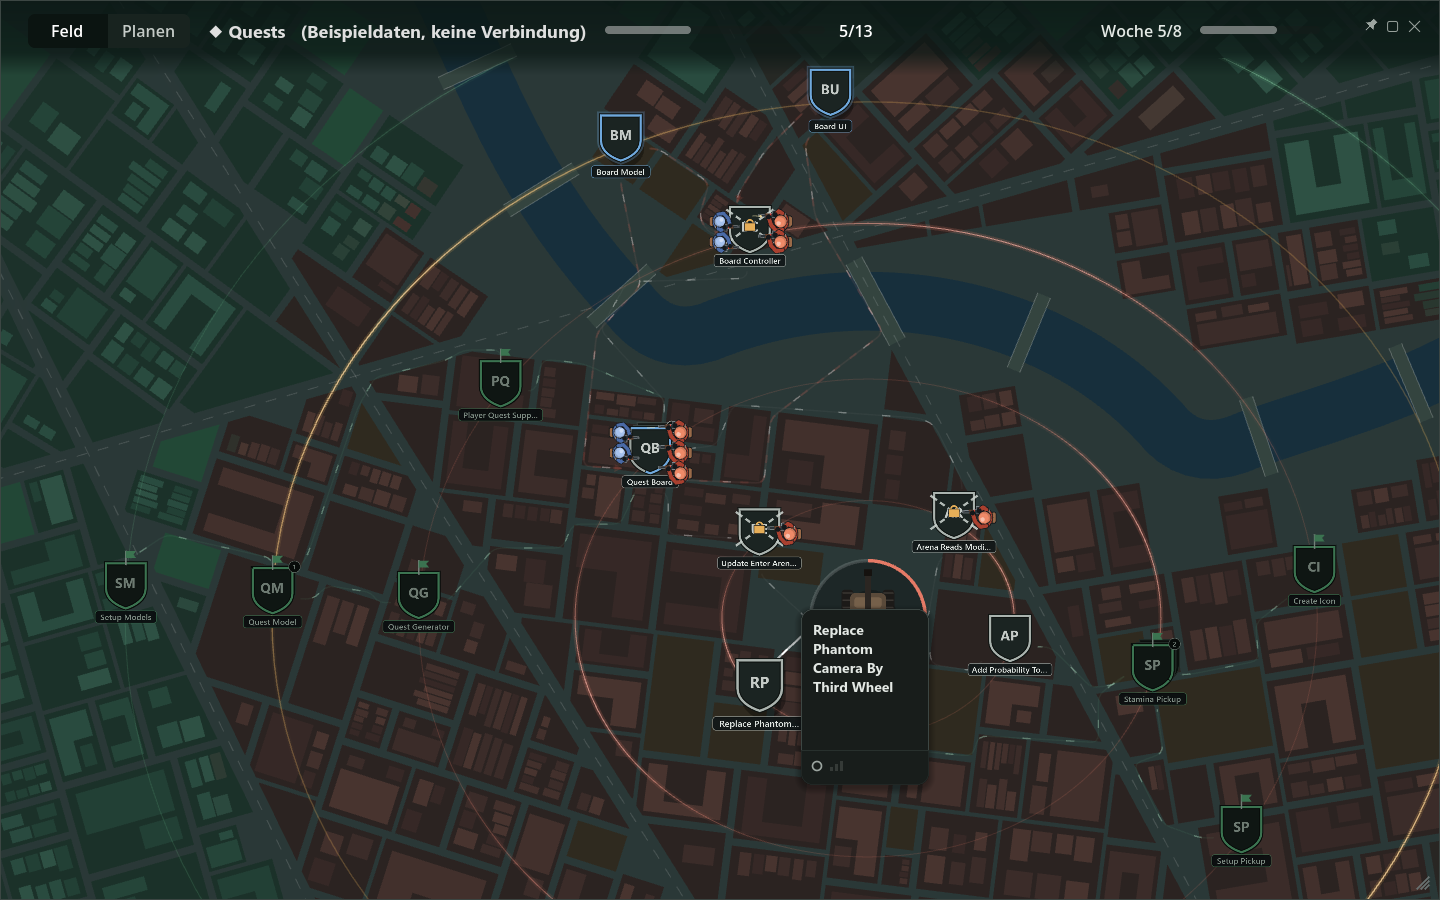
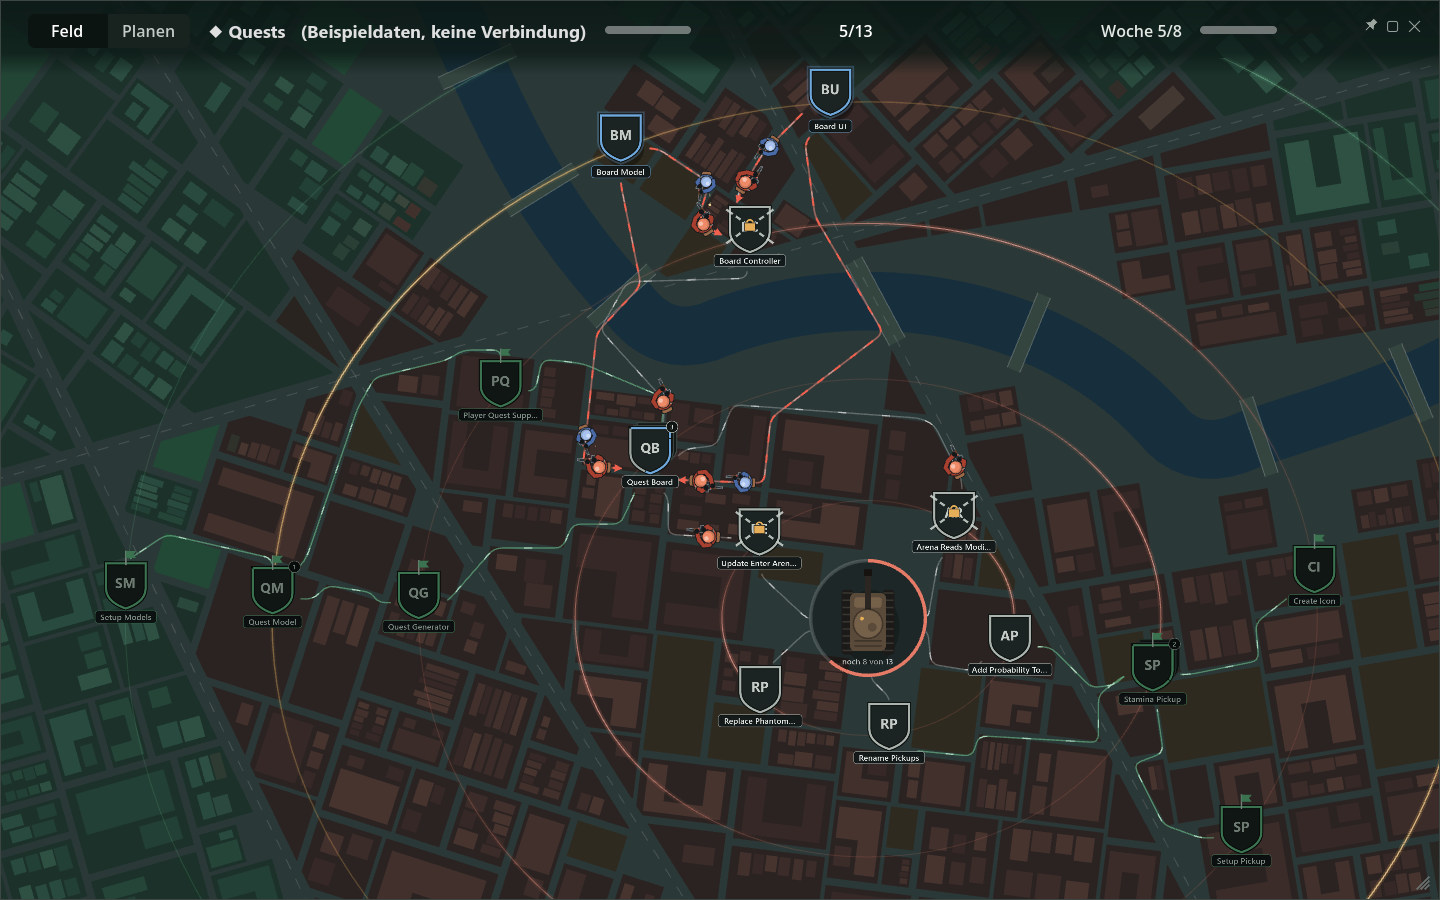
Kampf auf der Straße, Kopfzeile im Lageplan aufgeräumt
Gegner und eigene Soldaten stehen auf dem Weg vor der Karte und schauen
sich an. Im Lageplan zeigt die Kopfzeile nur noch Release und Milestone
und beginnt erst über der Karte.

diff --git a/PLAN.md b/PLAN.md
@@ -491,8 +491,8 @@ Der Weg zum Milestone soll ein Ziel haben. Statt Hand und Nachziehstapel liegen 
 - **Bedienung:** Verschoben wird das Feld mit der mittleren Maustaste, auch über Karten; die linke greift nur Karten. Karten, Wege und Figuren verschwinden hinter der Kopfzeile, die Stadt scheint durch.
 - **Feldzugskarte** (Nutzer, 2026-10-10; `rules/release.gd`, `rules/campaign.gd`, `ui/campaign_view.gd`): Tasker kennt Releases aus mehreren Milestones und mehrere aktive Milestones. Über dem Feld liegt deshalb eine zweite Ebene nach derselben Logik: das aktive Release steht als Festung in der Mitte, seine Milestones liegen als Städte in Ringen darum – außen, wovon ein anderer abhängt. Jede Stadt zeigt verkleinert ihren Fortschritt (von außen nach innen grün, Anteil in der Mitte) und je laufender Aufgabe ein Gefecht. Landstraßen verbinden, was aufeinander wartet; von jedem aktiven Milestone rollen Panzer nach innen, Flieger darüber. Ein Klick auf eine Stadt (oder weit hineinzoomen) öffnet ihr Feld; zurück geht es über den Release-Knopf in der Kopfzeile oder durch Herauszoomen über das Feld hinaus. Aktiv ist das erste unveröffentlichte Release mit laufendem Milestone, sonst das erste unveröffentlichte. Zu einem Release zählt ein Milestone auch, wenn einer seiner Milestones ihn über Abhängigkeiten braucht, über die ganze Kette (nach Taskers `shared/releaseOf.ts`, in `rules/workspace.gd`). Was zu keinem Release gehört, zeigt die Karte nicht. Die Karte ändert nichts; im Feld eines geplanten oder fertigen Milestones wird nur geschaut. Ohne Release ist alles wie zuvor. Verworfen: die Städte von Hand oder nach Plan-Reihenfolge anordnen (zu anfällig). Offen: „Spielen“, Dock und Szenen-Karten kennen weiter nur einen aktiven Milestone; Changelog und Kanäle sind zurückgestellt.
 - **Der Spieltisch ist entfernt** (Nutzer, 2026-10-12): Die Ansicht „Spielen“ mit Hand, Nachziehstapel, Schublade und Erledigt-Stapel gibt es nicht mehr; das Feld hat sie abgelöst. Das Tischfenster hat noch zwei Reiter, „Feld“ und „Planen“. Geblieben sind Wochenziel und Serie in der Kopfzeile, die Ablage (ein Klick auf das Wochenziel öffnet sie) und die Meldungen, wenn etwas erledigt oder frei wird. Was weiter oben in diesem Plan den Spieltisch beschreibt, ist damit Geschichte. Offen: Dock und Szenen-Karten zeigen weiter „Hand“ und „Nachziehstapel“ aus dem lokal gemerkten Stand (`rules/hand.gd`) – gezogen werden kann aber nirgends mehr; die Einstellung zur Handgröße hat keine Wirkung mehr.
-- **Abzeichen statt Karten in der Stadt** (Nutzer, 2026-10-12; `ui/badge.gd`): Eine gespielte Karte verliert ihre Form – ihr Titelbild bleibt als Wappenschild stehen, darunter ein Band mit dem Titel. Der Rand trägt die Farbe des Zustands und ist nach Checkliste und Unteraufgaben geteilt (ab 12 Stücken ohne Lücken), Winkel darüber stehen für die Priorität, Kette und Schloss für „gesperrt“, mehrere Schilde mit Zahl für einen Stapel, eine Fahne für „erledigt“. Was in Arbeit ist, hebt sich und leuchtet; das Querlegen entfällt. Ohne Titelbild trägt der Schild das Zeichen der Markierung oder die Anfangsbuchstaben. Unter dem Zeiger zeigt das Feld daneben die Karte in voller Größe – die Akte der Einheit. Die Figuren stehen neben dem Schild. Verworfen: Marken wie Spielsteine eines Kriegsspiels (kein Platz für Titel und Bild), das Bild auf dem Dach eines Blocks, eine Fahne mit dem Bild.
-- **Planen als Lageplan** (Nutzer, 2026-10-12; `ui/plan_map.gd`, das Feld mit `plan`): dieselbe Stadt, aber ruhig – einfarbig wie eine Blaupause, Ringe gestrichelt, keine Figuren, kein Tappen. Links die Reserve: Bereitschaft („Ready“) und Hinterland („Backlog“), gegliedert wie in Tasker, jede Aufgabe als Zeile mit Titelbild und lesbarem Titel (verkleinerte Karten waren nicht zu lesen); die Karte zeigt sich unter dem Zeiger. Oben eine Suche (Strg+F): sie filtert die Reserve und lässt in der Stadt zurücktreten, was nicht passt. Beim Ziehen sind die Abschnitte der Reserve Ziele, auch die leeren: ihre Zeilen klappen langsam und durchsichtig ein, nur der Abschnitt unter dem Zeiger bleibt oder geht auf; das Mausrad und der Rand rollen die Liste. So lässt sich eine Aufgabe aus der Stadt auf eine Kategorie oder Gruppe legen oder innerhalb der Reserve verlegen. Escape bricht jedes Ziehen ab, Strg+Z oder der Knopf neben der Suche nimmt Züge zurück (bis 50, nur im Lageplan). Eine Karte in die Stadt gezogen teilt sie dem Milestone zu (der Marschbefehl): sie fliegt an ihren Platz, ihr Rahmen zerfällt in Splitter, das Abzeichen setzt mit Lichtkreis und Nachfedern auf. Ein Abzeichen zurück in die Reserve gezogen legt die Aufgabe in den Abschnitt unter dem Zeiger; das Rechtsklick-Menü nimmt sie in die Bereitschaft. Unten rechts wechselt eine Liste die Stadt – alle Milestones des Projekts, auch die ohne Release. Der Ordner von früher (Decks und Vorrat als Ringordner, `plan_view.gd`, `binder.gd`, `fan_view.gd`) ist entfernt (Nutzer, 2026-10-12); was weiter oben in diesem Plan ihn beschreibt, ist Geschichte. Offen: Reihenfolge innerhalb eines Milestones, Zuteilen an eine Gruppe oder Kategorie, Unteraufgaben umhängen, einen Milestone starten – das geht bisher nur im Ordner oder in Tasker.
+- **Abzeichen statt Karten in der Stadt** (Nutzer, 2026-10-12; `ui/badge.gd`): Eine gespielte Karte verliert ihre Form – ihr Titelbild bleibt als Wappenschild stehen, darunter ein Band mit dem Titel. Der Rand trägt die Farbe des Zustands und ist nach Checkliste und Unteraufgaben geteilt (ab 12 Stücken ohne Lücken), Winkel darüber stehen für die Priorität, Kette und Schloss für „gesperrt“, mehrere Schilde mit Zahl für einen Stapel, eine Fahne für „erledigt“. Was in Arbeit ist, hebt sich und leuchtet; das Querlegen entfällt. Ohne Titelbild trägt der Schild das Zeichen der Markierung oder die Anfangsbuchstaben. Unter dem Zeiger zeigt das Feld daneben die Karte in voller Größe – die Akte der Einheit. Gekämpft wird auf der Straße (Nutzer, 2026-10-12): der Gegner steht auf dem Weg seines Angreifers ein Stück vor der Karte und schaut ihm entgegen, der eigene Soldat hält auf demselben Weg vor ihm; zur Mitte hin steht er am Ende der Straße vor dem Panzer. Nur wo es keinen Weg gibt, stehen die Figuren neben dem Schild. Verworfen: Marken wie Spielsteine eines Kriegsspiels (kein Platz für Titel und Bild), das Bild auf dem Dach eines Blocks, eine Fahne mit dem Bild. Der Gegner schaut dabei den an, der ihn stellt, nicht bloß die Straße hinunter (Nutzer, 2026-10-12).
+- **Planen als Lageplan** (Nutzer, 2026-10-12; `ui/plan_map.gd`, das Feld mit `plan`): dieselbe Stadt, aber ruhig – einfarbig wie eine Blaupause, Ringe gestrichelt, keine Figuren, kein Tappen. Links die Reserve: Bereitschaft („Ready“) und Hinterland („Backlog“), gegliedert wie in Tasker, jede Aufgabe als Zeile mit Titelbild und lesbarem Titel (verkleinerte Karten waren nicht zu lesen); die Karte zeigt sich unter dem Zeiger. Oben eine Suche (Strg+F): sie filtert die Reserve und lässt in der Stadt zurücktreten, was nicht passt. Beim Ziehen sind die Abschnitte der Reserve Ziele, auch die leeren: ihre Zeilen klappen langsam und durchsichtig ein, nur der Abschnitt unter dem Zeiger bleibt oder geht auf; das Mausrad und der Rand rollen die Liste. So lässt sich eine Aufgabe aus der Stadt auf eine Kategorie oder Gruppe legen oder innerhalb der Reserve verlegen. Escape bricht jedes Ziehen ab, Strg+Z oder der Knopf neben der Suche nimmt Züge zurück (bis 50, nur im Lageplan). Eine Karte in die Stadt gezogen teilt sie dem Milestone zu (der Marschbefehl): sie fliegt an ihren Platz, ihr Rahmen zerfällt in Splitter, das Abzeichen setzt mit Lichtkreis und Nachfedern auf. Ein Abzeichen zurück in die Reserve gezogen legt die Aufgabe in den Abschnitt unter dem Zeiger; das Rechtsklick-Menü nimmt sie in die Bereitschaft. Unten rechts wechselt eine Liste die Stadt – alle Milestones des Projekts, auch die ohne Release. Der Ordner von früher (Decks und Vorrat als Ringordner, `plan_view.gd`, `binder.gd`, `fan_view.gd`) ist entfernt (Nutzer, 2026-10-12); was weiter oben in diesem Plan ihn beschreibt, ist Geschichte. Offen: Reihenfolge innerhalb eines Milestones, Zuteilen an eine Gruppe oder Kategorie, Unteraufgaben umhängen, einen Milestone starten – das geht bisher nur im Ordner oder in Tasker. Die Kopfzeile zeigt im Lageplan nur den Milestone und davor sein Release (zur Feldzugskarte führt der Knopf nur beim laufenden Release); Fortschritt, Serie und Wochenziel stehen nur im Feld (Nutzer, 2026-10-12).
 - **Abhängigkeiten im Lageplan** (Nutzer, 2026-10-12; `rules/dependency.gd`): Ein Abzeichen auf ein anderes fallen lassen heißt: das gezogene blockiert das, worauf es liegt – das Ziel wartet auf das gezogene, das dafür einen Ring nach außen rückt; das Ziel bleibt, wo es ist (erst umgekehrt gebaut, vom Nutzer am selben Tag gedreht). Über dem Ziel steht vorher, was geschieht, oder rot, warum es nicht geht (Kreis, wartet schon darauf, Stapel und Unteraufgabe). Gelöst wird am Weg: liegt der Zeiger auf einem Abzeichen, tragen seine Abhängigkeits-Wege in der Mitte ein Kreuz; ein Klick löst diese eine. Die Kreuze bleiben kurz stehen, damit man sie erreicht. Strg+Z nimmt auch das zurück. Verworfen: noch einmal draufziehen zum Lösen, den Weg mit einer Zusatztaste durchschneiden, Linien mit Alt ziehen. Offen: Abhängigkeiten zu Aufgaben außerhalb der Stadt; Abhängigkeiten, die das Feld als Abkürzung nicht zeichnet, haben kein Kreuz.
 - **Nichts davon wird gespeichert:** alles ergibt sich aus Status, Unteraufgaben, Abhängigkeiten und Kästchen. Tasker selbst kennt das Feld nicht.
 - **Keine Obergrenze** für getappte Karten (die Marken aus den Skizzen sind verworfen), keine Figuren, kein Alter der Arbeit.
